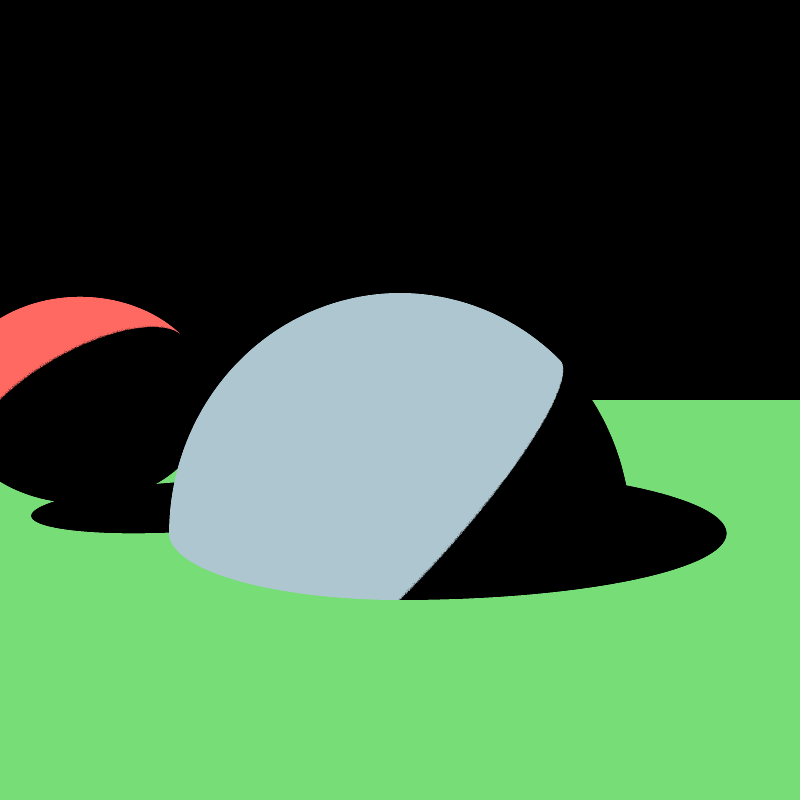
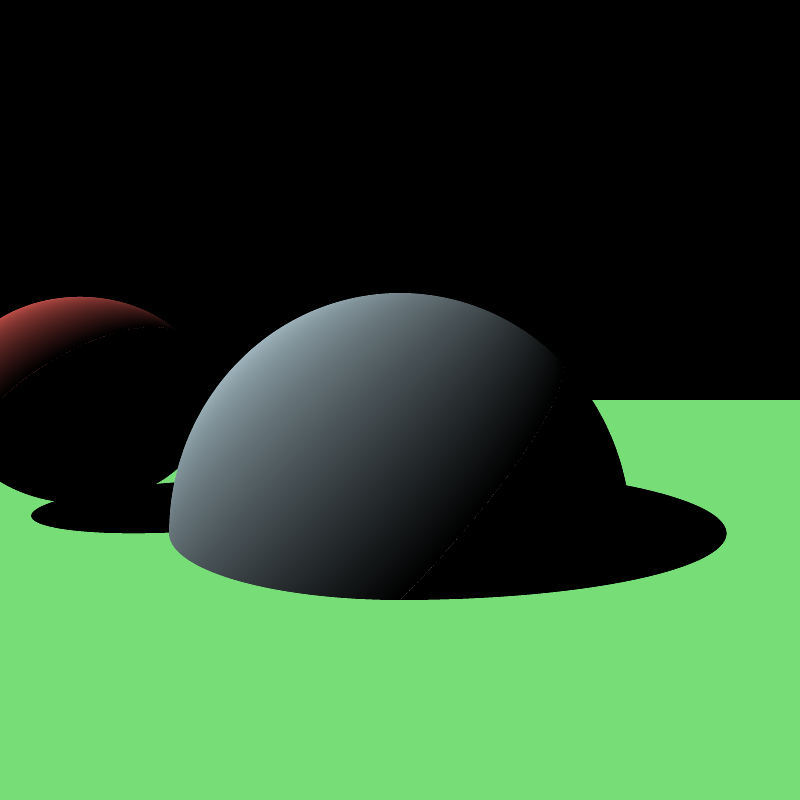
Add lambert shading

Changed region(s): [[0.1875, 0.3438, 0.7188, 0.75], [0.0, 0.3438, 0.2188, 0.5]]

diff --git a/src/object.rs b/src/object.rs
@@ -21,10 +21,12 @@ impl Object {
 	}
 
 	pub fn color(&self, scene: &Scene, point: Point3) -> Rgb {
-		let color = match self {
+		let mut color = match self {
 			Object::Sphere(object) => object.color,
 			Object::Plane(object) => object.color,
 		};
+
+		let mut lambert_sum = 0.0;
 
 		for i in 0..scene.lights.len() {
 			let light = scene.lights[i];
@@ -57,7 +59,16 @@ impl Object {
 
 			if intersects {
 				return RGB_BLACK;
+			}	else {
+				let lambert = direction.dot(self.normal(point));
+				lambert_sum += lambert;
 			}
+		}
+
+		if lambert_sum > 0.0 {
+			color.r = (color.r as f32 * lambert_sum.min(1.0)) as u8;
+			color.g = (color.g as f32 * lambert_sum.min(1.0)) as u8;
+			color.b = (color.b as f32 * lambert_sum.min(1.0)) as u8;
 		}
 
 		return color;
